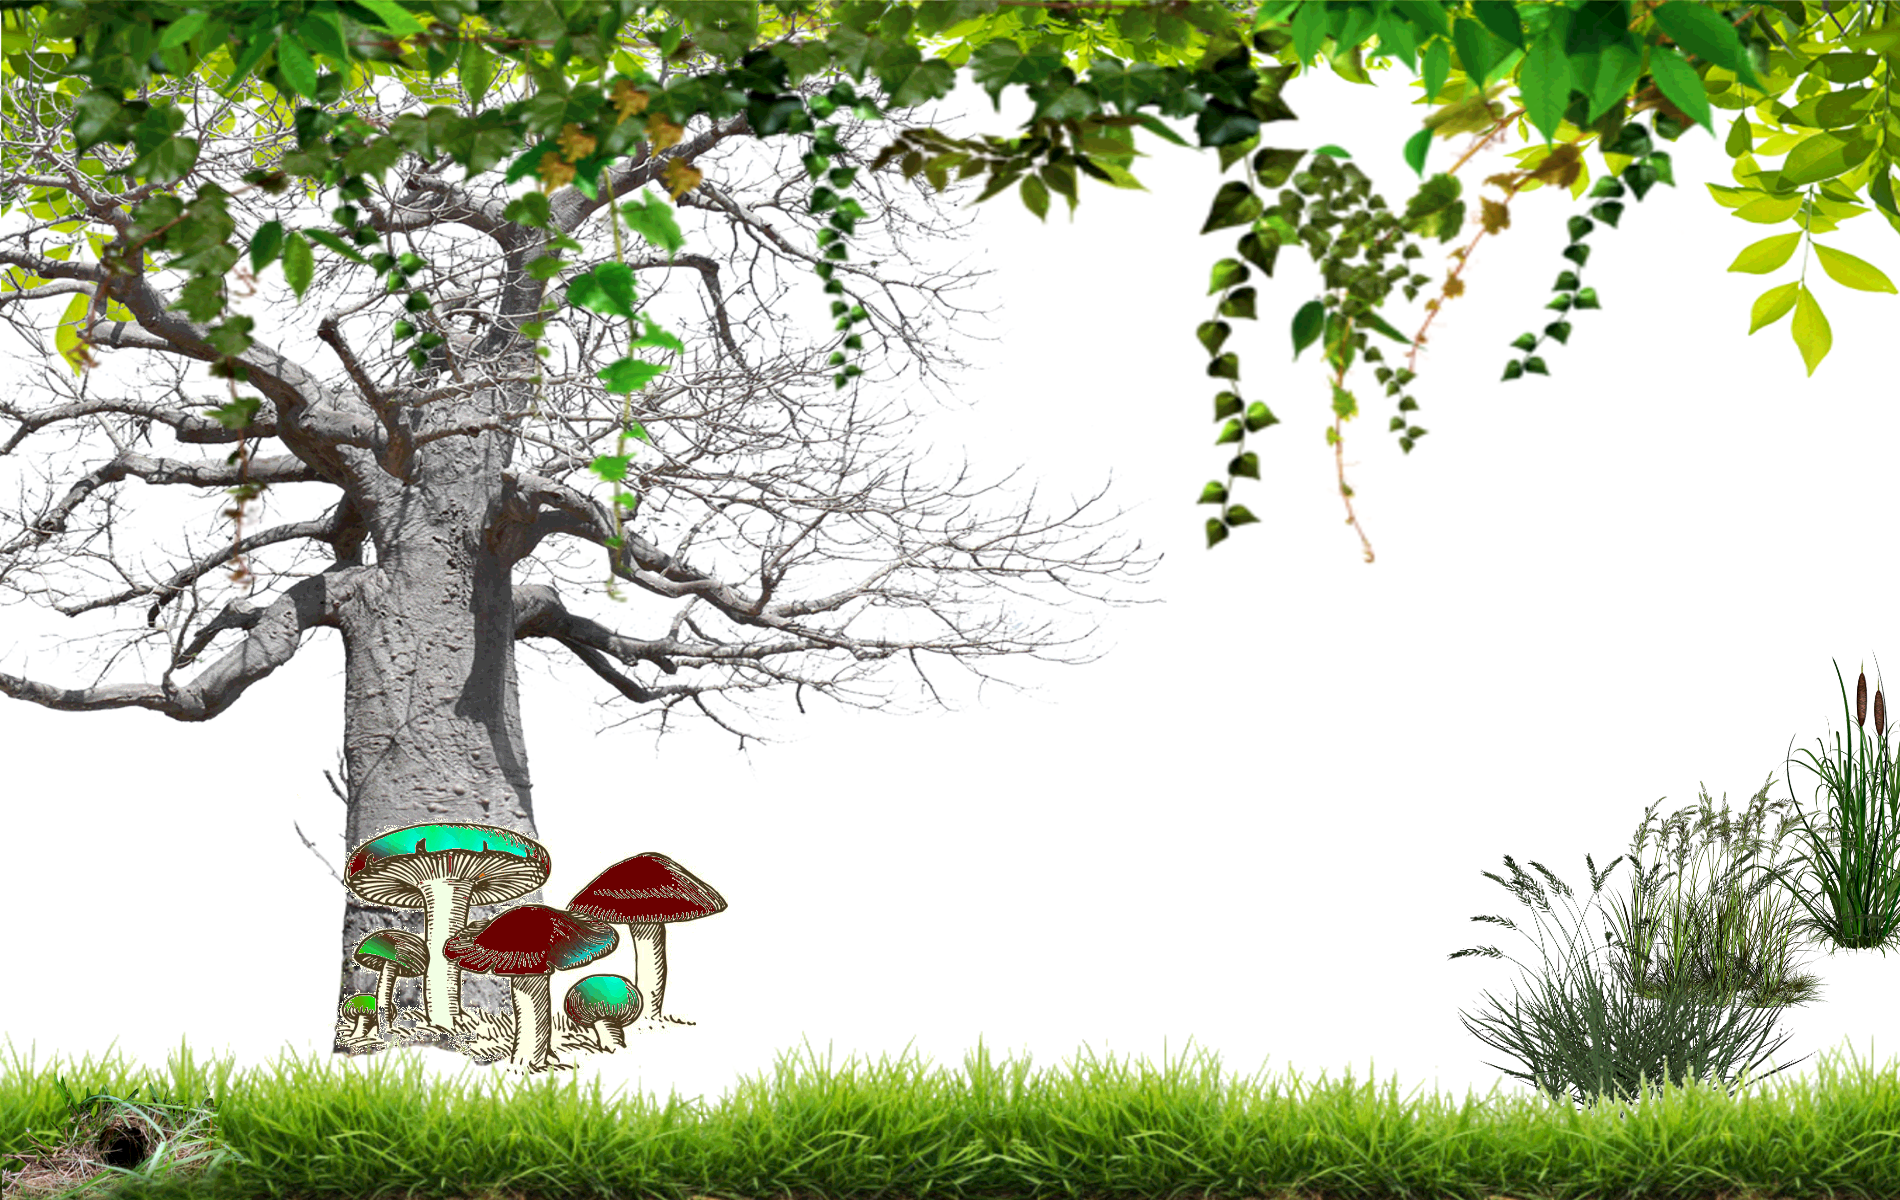
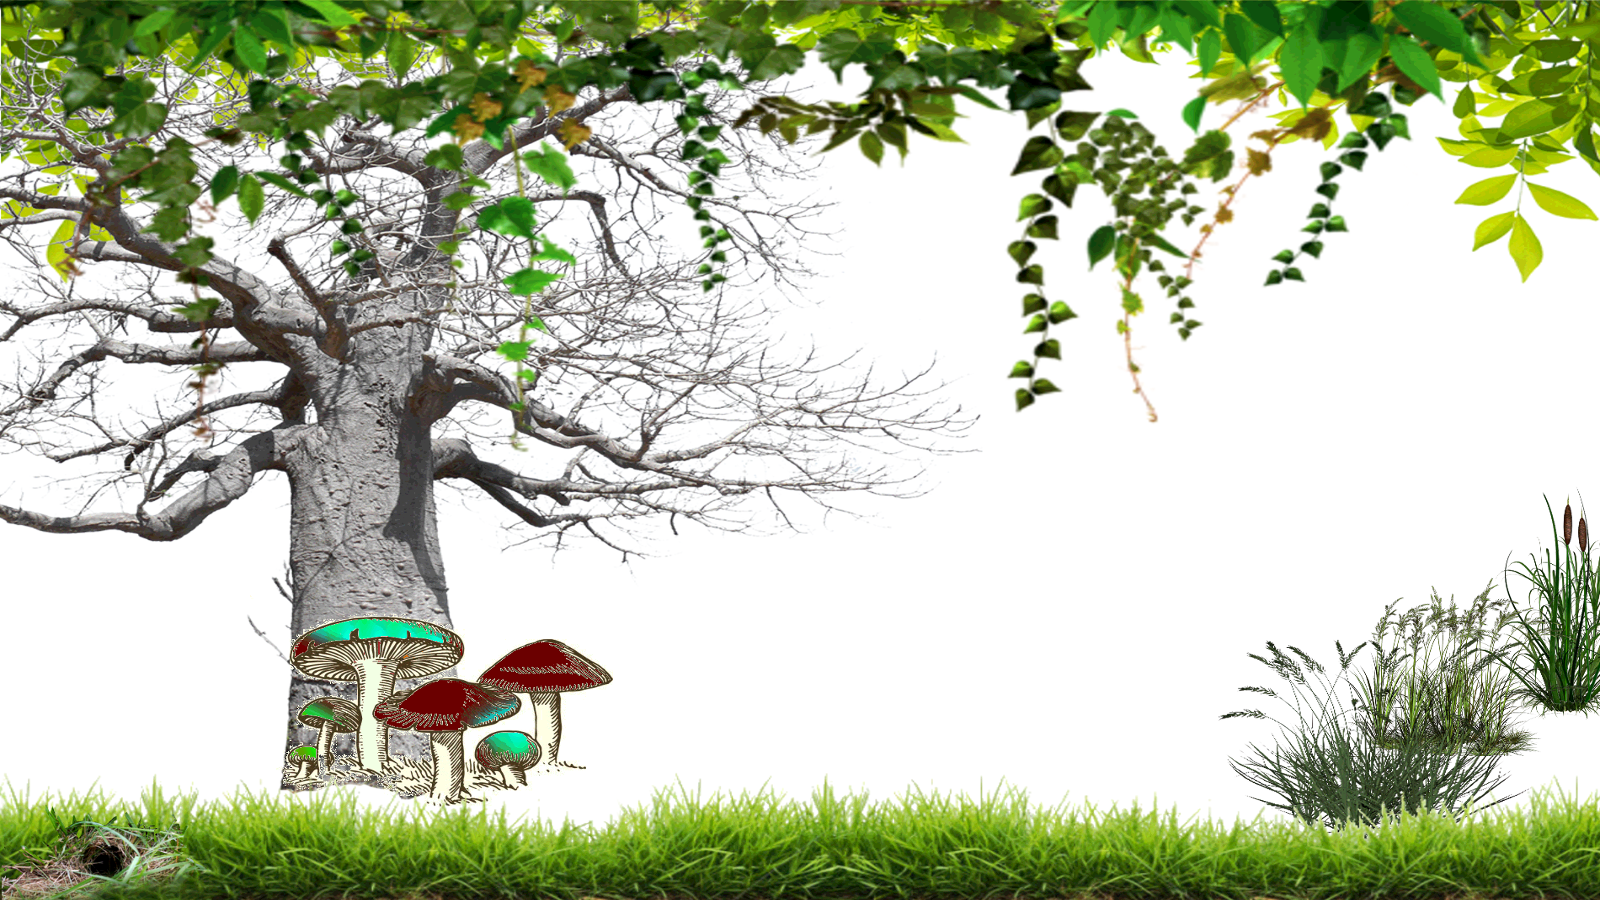
Better parallax in most screen size!
* uniform background with frame,
* centered,
* full image,
* no scrollbar,
* ...

TODO : terrier is gone now

diff --git a/js/webcart0n-wonderlands.js b/js/webcart0n-wonderlands.js
@@ -72,7 +72,10 @@ var clientSceneSizeX, clientSceneSizeY;
 document.onreadystatechange = function () {
 
 
-  if (document.readyState == "complete") {
+  if (document.readyState == "complete")
+  {
+    document.documentElement.style.overflow = 'hidden';	 // firefox, chrome
+    document.body.scroll = "no";	// ie only
     window.onresize=function(){updateSceneSize();};
 	  //on lance la boucle des bouches
 	  bouche_random();
@@ -80,7 +83,7 @@ document.onreadystatechange = function () {
 	  document.getElementById('bouchecentre').onclick = affiche_wonderlands;
 	  
 	  updateSceneSize();
-	  }
+  }
 }
 
 var bouche_random_timerid;
@@ -120,18 +123,18 @@ function affiche_wonderlands(e) {
   clearTimeout(bouche_random_timerid);
 
   //on affiche le decors
- document.body.onmousemove = parallax_wonderland;  
- document.getElementById('wonderparallax').style.visibility = "visible";
+  document.body.style.backgroundColor = "black";
+  document.body.onmousemove = parallax_wonderland;
+  document.getElementById('wonderparallax').style.visibility = "visible";
 
   // on appelle a la main une premiere fois
   //pour eviter les glitch (de la position fixe des css)
- parallax_wonderland(e);
+  parallax_wonderland(e);
 
   //on affiche les alices
   //TODO precharge les alice dans document complete ?
- // affiche_les_alices();
-  
-  
+  affiche_les_alices();
+
   document.getElementById('terrier').onclick = function(){crazyLapinou();};
 }
 
@@ -140,35 +143,24 @@ adapt from http://allshoreit.com/Blog/?page_id=84
 */
 function parallax_wonderland(e){
   
-var layer1 = document.getElementById('wonderlands_avant');
-var layer2 = document.getElementById('wonderlands_milieu');
-var layer3 = document.getElementById('wonderlands_apres');
+ var layer1 = document.getElementById('wonderlands_avant');
+ var layer2 = document.getElementById('wonderlands_milieu');
+ var layer3 = document.getElementById('wonderlands_apres');
 
-var xPosition = e.clientX; //it stores the mouse X position
-var yPosition = e.clientY; //it stores the mouse Y position and both //changes with mouse move event per pixel.
+ var xPosition = e.clientX; //it stores the mouse X position
+ var yPosition = e.clientY; //it stores the mouse Y position and both //changes with mouse move event per pixel.
 
-// Now we will change the X position of each layer on mouse move, to provide the smooth and slow effect we will divide position with some numbers.
-//layer1.style.backgroundPosition=(xPosition/8-400)+"px " + (yPosition/8-600)+"px";
+ // Now we will change the X position of each layer on mouse move, to provide the smooth and slow effect we will divide position with some numbers.
+ // TODO pourcentage base sur taille ecran !!!???
+ layer1.style.right=(xPosition/100)+"px";
+ layer1.style.top= -(yPosition/100)+"px";
 
-// TODO pourcentage base sur taille ecran !!!
-// de haut en bas 
-// avant 4px , milieu 6 ciel 10
-//var 
-layer1.style.right=(xPosition/100-80)+"px";
-layer1.style.bottom= (yPosition/100)+"px";
+ layer2.style.right=(xPosition/80)+"px";
+ layer2.style.top= (yPosition/80)+"px";
 
-//layer2.style.backgroundPosition=(xPosition/6-300)+"px "+ (yPosition/6-300)+"px";
-
-layer2.style.right=(xPosition/80-50)+"px " 
-layer2.style.top= (yPosition/80-50)+"px";
-
-//layer3.style.backgroundPosition=(xPosition/4-400)+"px " + (yPosition/4-400)+"px";
-
- layer3.style.right=(xPosition/60-100)+"px " 
- layer3.style.top= (yPosition/60-50)+"px ";
-
+ layer3.style.right=(xPosition/60)+"px";
+ layer3.style.top= (yPosition/60)+"px";
 }
-
 
 var alice_bank = [
 {name:"alice", url:'./res/alice_katheryn_queen.gif', zindex:100, bottom:"15%", top:"auto",  right:"40%", left:"auto", width: "90px", height:"auto" },

diff --git a/style/webcartoon-wonderlands.css b/style/webcartoon-wonderlands.css
@@ -6,6 +6,7 @@
 body {
 }
 
+
 /******************************************/
 /******** BOUCHE **************************/
 /******************************************/
@@ -33,17 +34,20 @@ cursor: pointer; /* move */
 /******************************************/
 #wonderparallax
 {
-  position: fixed;
+/*  position: fixed;*/
   visibility: hidden;
   width: 100%;
   padding-top: 28.125%; /* 56.25%; /*16/9 */
   padding-bottom: 28.125%; /*16/9 */
   top: 0;
   left: 0;
+  
 }
 
 .wonderlands
 {
+
+
 /*test posi >>>*/
   position: absolute;
   top: 0;
@@ -62,14 +66,30 @@ cursor: pointer; /* move */
   position: absolute;
 }
 
+#wonderlands_cadre {
+  background-image: url(../res/Wonderlands00.png);
+  width: 101%;
+  height: 104%;
+  top: 0;
+
+/*    top: 0;*/
+    margin: -1%;
+/*    padding: 1%;
+    left: 0;
+    position: relative;
+*/
+}
+
 #wonderlands_avant {
   background-image: url(../res/Wonderlands01.png);
-  width: 104%;
-  height: 104%;
+  width: 102%;
+  height: 102%;
      top: 0;
 
-  padding-left: 4%;
+/*  padding-left: 4%;*/
   margin-left: -2%;
+/*  padding-right: 4%;*/
+  margin-right: -2%;
   padding-top: 4%;
   margin-top: -4%;
   padding-bottom: 4%;
@@ -78,26 +98,60 @@ cursor: pointer; /* move */
 
 #wonderlands_milieu {
   background-image: url(../res/Wonderlands02.png);
-  width: 110%;
+/*  width: 106%;
+  height: 106%;
     top: 0;
     
-  padding-left: 4%;
+  padding-left: 6%;
   margin-left: -4%;
+  padding-right: 6%;
+  margin-right: -4%;
+  padding-top: 6%;
+  margin-top: -6%;
+  padding-bottom: 6%;
+  margin-bottom: -6%;*/
+  width: 102%;
+  height: 102%;
+     top: 0;
+
+/*  padding-left: 4%;*/
+  margin-left: -2%;
+/*  padding-right: 4%;*/
+  margin-right: -2%;
+  padding-top: 4%;
+  margin-top: -4%;
   padding-bottom: 4%;
   margin-bottom: -4%;
 }
 
 #wonderlands_apres {
   background-image: url(../res/Wonderlands03.gif);
-  width: 120%;
+    width: 102%;
+  height: 102%;
+     top: 0;
+
+/*  padding-left: 4%;*/
+  margin-left: -2%;
+/*  padding-right: 4%;*/
+  margin-right: -2%;
+  padding-top: 4%;
+  margin-top: -4%;
+  padding-bottom: 4%;
+  margin-bottom: -4%;
+/*  width: 112%;
+  width: 112%;
      top: 0;
      
   padding-left: 10%;
   margin-left: -10%;
   padding-bottom: 10%;
-  margin-bottom: -10%;
+  margin-bottom: -10%;*/
 }
 
+#wdl_cadre
+{
+  z-index: 999;
+}
 #wdl_avant
 {
   z-index: 500;
@@ -192,10 +246,10 @@ cursor: pointer; /* move */
 /*test posi >>>*/
   position: absolute;
 /*test posi <<<   position: fixed;*/
-  width: 130px;
-  height: 50px;
-  bottom: 0px;
-  left: 0px;
+  width: 8%;
+  height: 7%;
+  bottom: 0%;
+  left: 2%;
   
   background-color: yellow;
 /*  bac */

diff --git a/index.html b/index.html
@@ -28,11 +28,18 @@
 
 <!--SECOND SCENE : LE WONDERLAND-->
 <div id="wonderparallax">
-<div class="wonderlands" id="wdl_avant" ><div id="wonderlands_avant"></div></div>
-<div class="wonderlands" id="wdl_milieu"><div id="wonderlands_milieu"></div></div>
-<div class="wonderlands" id="wdl_apres"><div id="wonderlands_apres"></div></div>
-
-<div id="terrier"></div>
+  <div class="wonderlands"  id="wdl_cadre" >
+    <div id="wonderlands_cadre"></div>
+  </div>
+  <div class="wonderlands" id="wdl_avant" >
+    <div id="wonderlands_avant"><div id="terrier"></div></div>
+  </div>
+  <div class="wonderlands" id="wdl_milieu">
+    <div id="wonderlands_milieu"></div>
+  </div>
+  <div class="wonderlands" id="wdl_apres">
+    <div id="wonderlands_apres"></div>
+  </div>
 </div>
 
 
